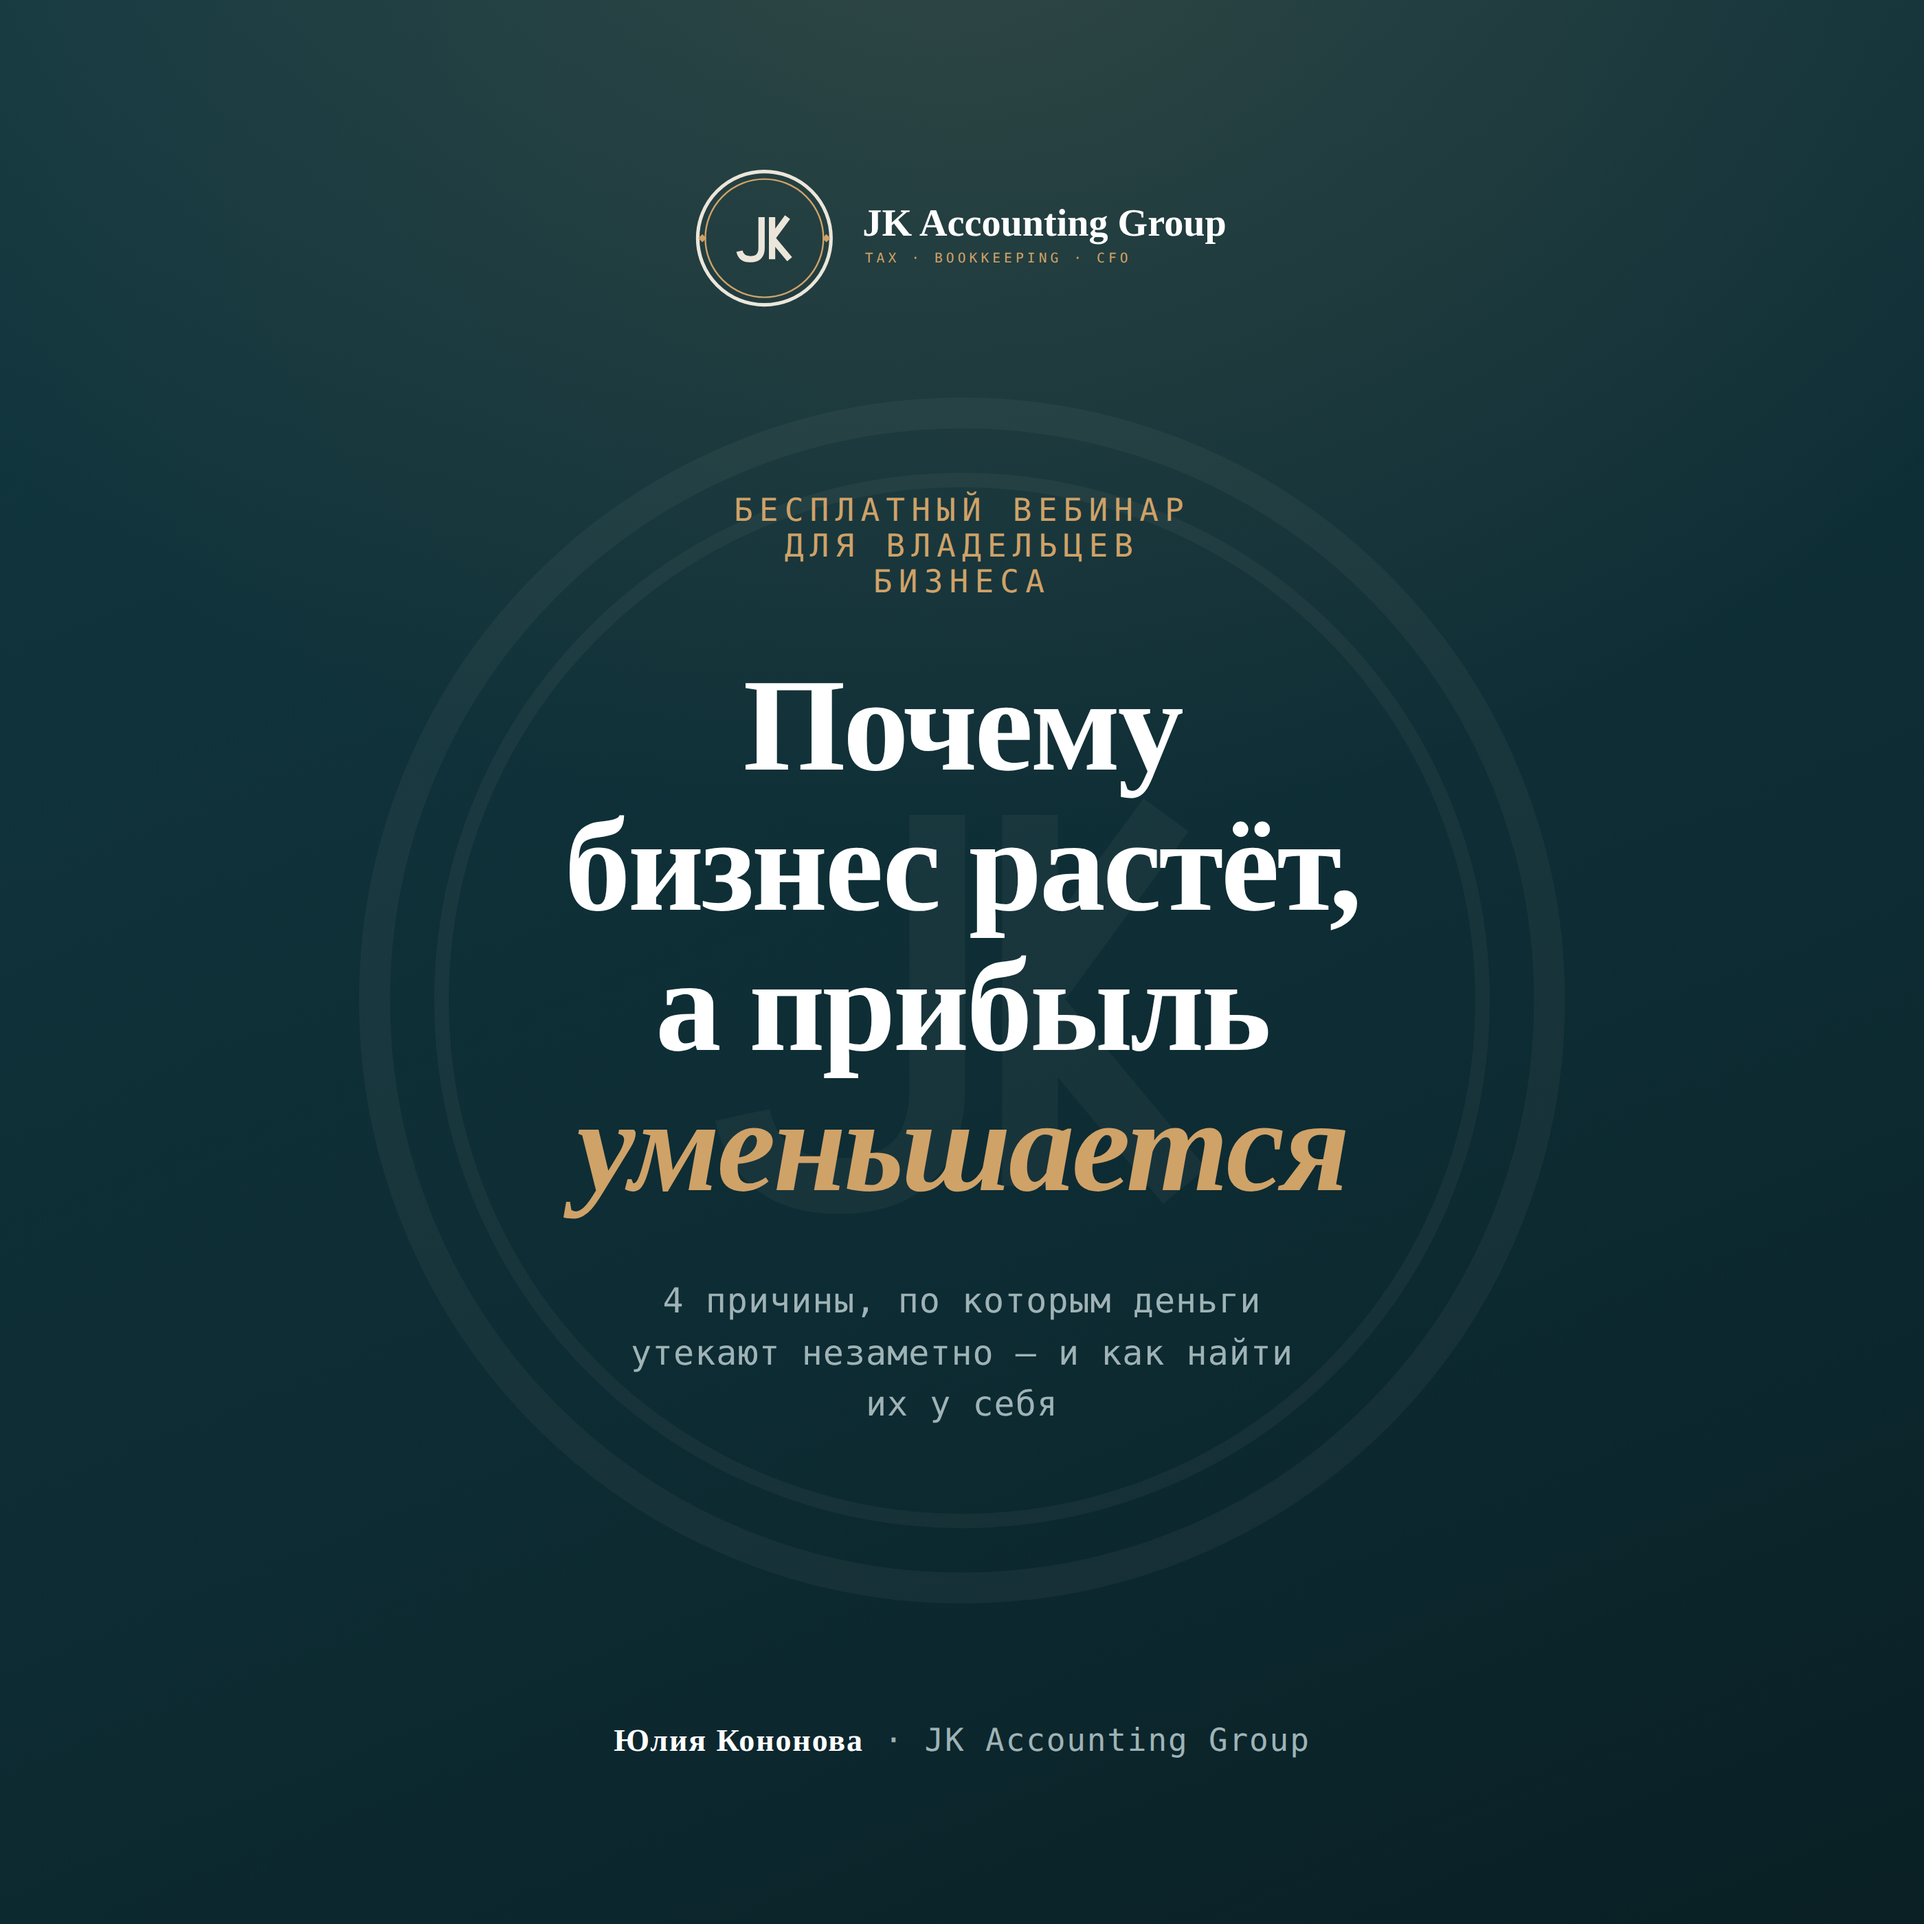
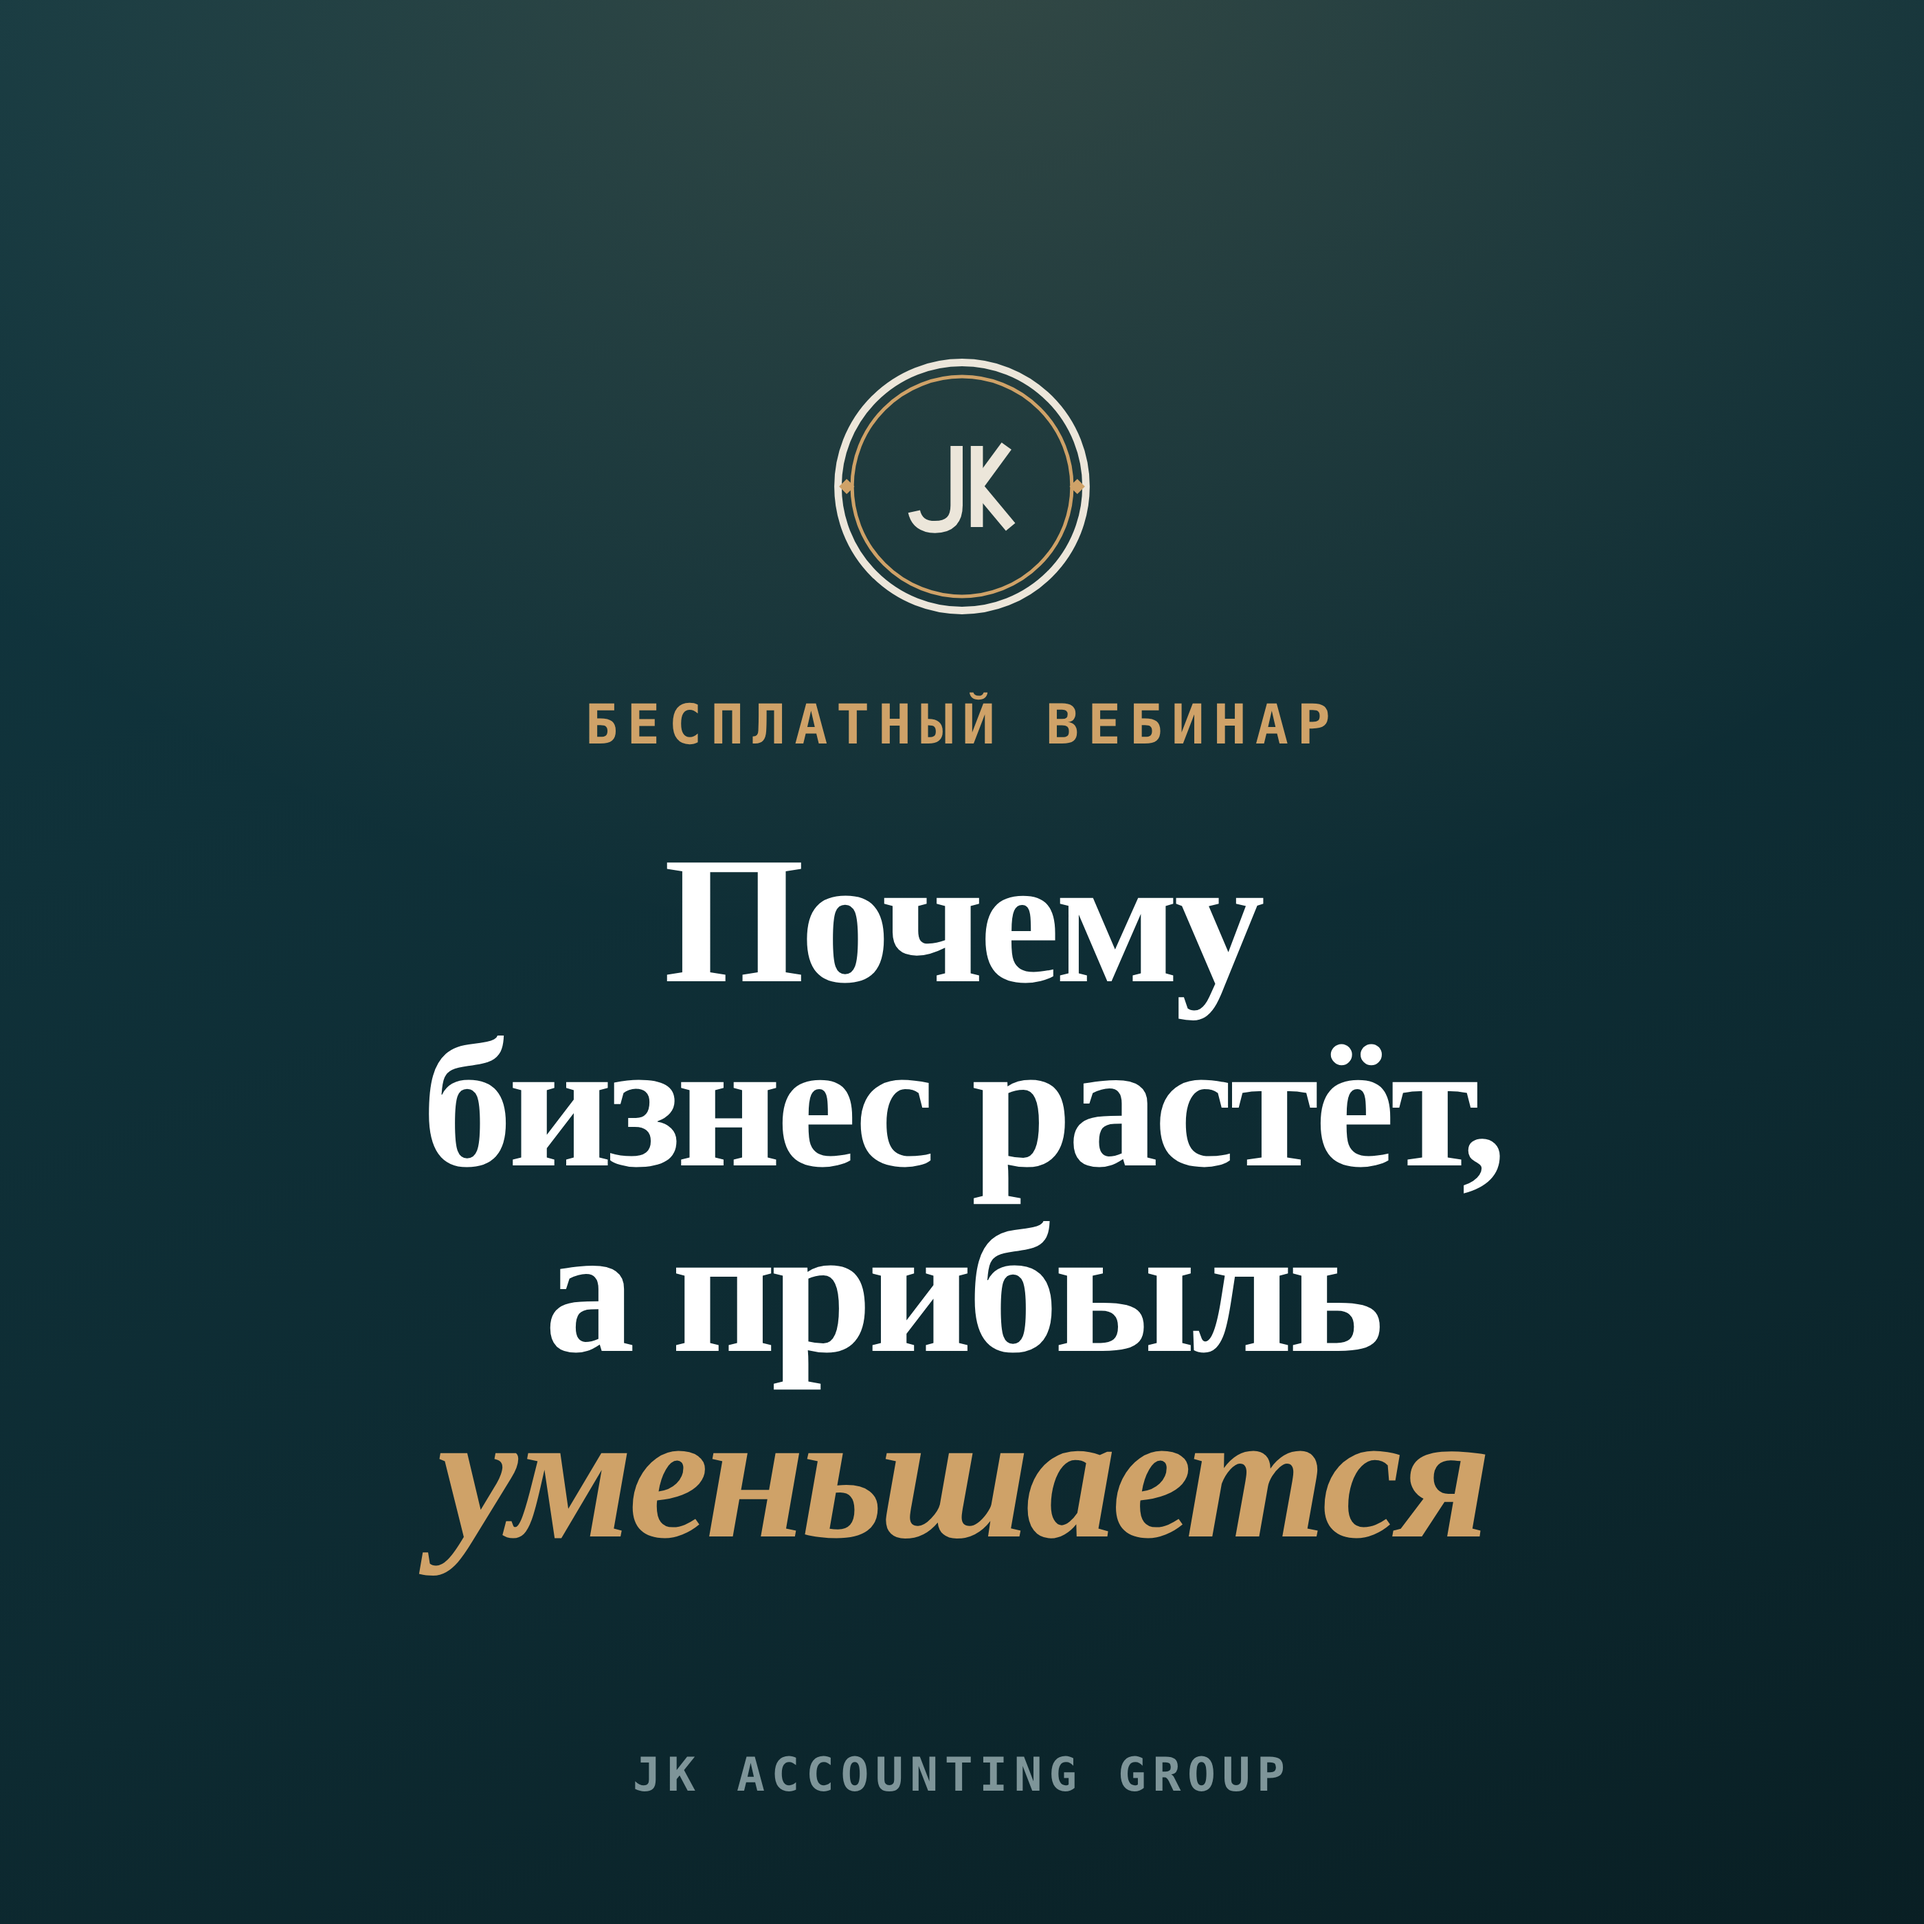
Simplify Luma cover for legibility at thumbnail size
Luma renders the cover small (~260px), where the subline/presenter/fine print
turned to mush. Stripped the cover to what actually reads when shrunk: the JK
medallion mark, a "Бесплатный вебинар" tag, and a much larger dominant title
(132px), with only a small wordmark at the bottom. Verified legible at ~280px.

Claude-Session: https://claude.ai/code/session_01FBq6bGBRQRT3eAc2gPGtFN

Changed region(s): [[0.2175, 0.1864, 0.7768, 0.8389], [0.3107, 0.9011, 0.6836, 0.9321], [0.3729, 0.0932, 0.6525, 0.1554]]

diff --git a/projects/marketing/referral-offer-strategy/webinar/luma/cover-ru.html b/projects/marketing/referral-offer-strategy/webinar/luma/cover-ru.html
@@ -2,53 +2,36 @@
 <html lang="ru">
 <head>
 <meta charset="utf-8">
-<link href="https://fonts.googleapis.com/css2?family=Source+Serif+4:ital,opsz,wght@0,8..60,600;1,8..60,600&family=IBM+Plex+Mono:wght@500&display=swap" rel="stylesheet">
+<link href="https://fonts.googleapis.com/css2?family=Source+Serif+4:ital,opsz,wght@0,8..60,600;0,8..60,700;1,8..60,700&family=IBM+Plex+Mono:wght@600&display=swap" rel="stylesheet">
 <style>
   *{box-sizing:border-box; margin:0; padding:0}
   body{background:#222}
   .cover{
     position:relative; width:1400px; height:1400px; overflow:hidden;
-    background:radial-gradient(115% 90% at 50% -6%, rgba(207,162,104,.16), transparent 55%),linear-gradient(158deg,#123841,#0D2A31 68%,#091F24);
-    color:#ECE6DA; font-family:"IBM Plex Mono",monospace;
+    background:radial-gradient(120% 95% at 50% -4%, rgba(207,162,104,.18), transparent 56%),linear-gradient(158deg,#123841,#0D2A31 66%,#091F24);
+    color:#fff; font-family:"Source Serif 4",Georgia,serif;
     display:flex; flex-direction:column; align-items:center; justify-content:center; text-align:center;
-    padding:120px 110px;
+    padding:110px 120px;
   }
-  .lockup{position:absolute; top:118px; left:50%; transform:translateX(-50%); width:400px}
-  .wm{position:absolute; left:50%; top:52%; transform:translate(-50%,-50%); width:900px; opacity:.045}
-  .kicker{position:relative; font-family:"IBM Plex Mono",monospace; font-size:23px; letter-spacing:.2em; text-transform:uppercase; color:#CFA268; margin-bottom:40px; max-width:26ch}
-  h1{position:relative; font-family:"Source Serif 4",Georgia,serif; font-weight:600; font-size:96px; line-height:1.06; letter-spacing:-0.02em; color:#fff; text-wrap:balance; max-width:15ch}
+  .mark{width:190px; margin-bottom:56px}
+  .tag{font-family:"IBM Plex Mono",monospace; font-weight:600; font-size:40px; letter-spacing:.16em; text-transform:uppercase; color:#CFA268; margin-bottom:52px}
+  h1{font-family:"Source Serif 4",Georgia,serif; font-weight:700; font-size:132px; line-height:1.02; letter-spacing:-0.025em; color:#fff; text-wrap:balance; max-width:13ch}
   h1 em{font-style:italic; color:#CFA268}
-  .sub{position:relative; font-family:"IBM Plex Mono",monospace; font-size:25px; letter-spacing:.02em; color:#9FB3B6; margin-top:44px; max-width:34ch; line-height:1.5}
-  .who{position:absolute; bottom:120px; left:50%; transform:translateX(-50%); font-family:"IBM Plex Mono",monospace; font-size:23px; letter-spacing:.04em; color:#9FB3B6}
-  .who b{color:#fff; font-family:"Source Serif 4",serif; font-weight:600}
+  .name{position:absolute; bottom:88px; left:0; right:0; font-family:"IBM Plex Mono",monospace; font-weight:600; font-size:34px; letter-spacing:.14em; text-transform:uppercase; color:#7E9599}
 </style>
 </head>
 <body>
 <div class="cover">
 
-  <svg class="lockup" viewBox="0 0 470 130" role="img" aria-label="JK Accounting Group">
-    <g transform="translate(6,5)">
-      <circle cx="60" cy="60" r="57" fill="none" stroke="#ECE6DA" stroke-width="3"></circle>
-      <circle cx="60" cy="60" r="50.5" fill="none" stroke="#CFA268" stroke-width="1.4"></circle>
-      <g fill="#CFA268">
-        <path d="M7 56.5 l3.5 3.5 -3.5 3.5 -3.5 -3.5 z"></path>
-        <path d="M113 56.5 l3.5 3.5 -3.5 3.5 -3.5 -3.5 z"></path>
-      </g>
-      <g transform="translate(60,60) scale(0.6) translate(-59,-56)">
-        <g fill="none" stroke="#ECE6DA" stroke-width="9">
-          <path d="M55 26 L55 70 Q55 86 39 86 Q26 86 23.5 74.5"></path>
-          <path d="M70 26 L70 86"></path><path d="M70 56 L92 26"></path><path d="M70 56 L95 86"></path>
-        </g>
-      </g>
+  <!-- JK medallion mark (reversed) -->
+  <svg class="mark" viewBox="0 0 120 120" role="img" aria-label="JK Accounting Group">
+    <circle cx="60" cy="60" r="57" fill="none" stroke="#ECE6DA" stroke-width="3.4"></circle>
+    <circle cx="60" cy="60" r="50.5" fill="none" stroke="#CFA268" stroke-width="1.6"></circle>
+    <g fill="#CFA268">
+      <path d="M7 56.5 l3.6 3.5 -3.6 3.5 -3.5 -3.5 z"></path>
+      <path d="M113 56.5 l3.5 3.5 -3.5 3.5 -3.6 -3.5 z"></path>
     </g>
-    <text x="150" y="63" font-family="'Source Serif 4',Georgia,serif" font-size="33" font-weight="600" fill="#FFFFFF">JK Accounting Group</text>
-    <text x="152" y="86" font-family="'IBM Plex Mono',monospace" font-size="11.5" letter-spacing="3" fill="#CFA268">TAX · BOOKKEEPING · CFO</text>
-  </svg>
-
-  <svg class="wm" viewBox="0 0 120 120" aria-hidden="true">
-    <circle cx="60" cy="60" r="57" fill="none" stroke="#ECE6DA" stroke-width="3"></circle>
-    <circle cx="60" cy="60" r="50.5" fill="none" stroke="#ECE6DA" stroke-width="1.4"></circle>
-    <g transform="translate(60,60) scale(0.6) translate(-59,-56)">
+    <g transform="translate(60,60) scale(0.62) translate(-59,-56)">
       <g fill="none" stroke="#ECE6DA" stroke-width="9">
         <path d="M55 26 L55 70 Q55 86 39 86 Q26 86 23.5 74.5"></path>
         <path d="M70 26 L70 86"></path><path d="M70 56 L92 26"></path><path d="M70 56 L95 86"></path>
@@ -56,11 +39,10 @@
     </g>
   </svg>
 
-  <p class="kicker">Бесплатный вебинар для владельцев бизнеса</p>
+  <p class="tag">Бесплатный вебинар</p>
   <h1>Почему бизнес растёт, а прибыль <em>уменьшается</em></h1>
-  <p class="sub">4 причины, по которым деньги утекают незаметно — и как найти их у себя</p>
 
-  <div class="who"><b>Юлия Кононова</b> · JK Accounting Group</div>
+  <div class="name">JK Accounting Group</div>
 
 </div>
 </body>
